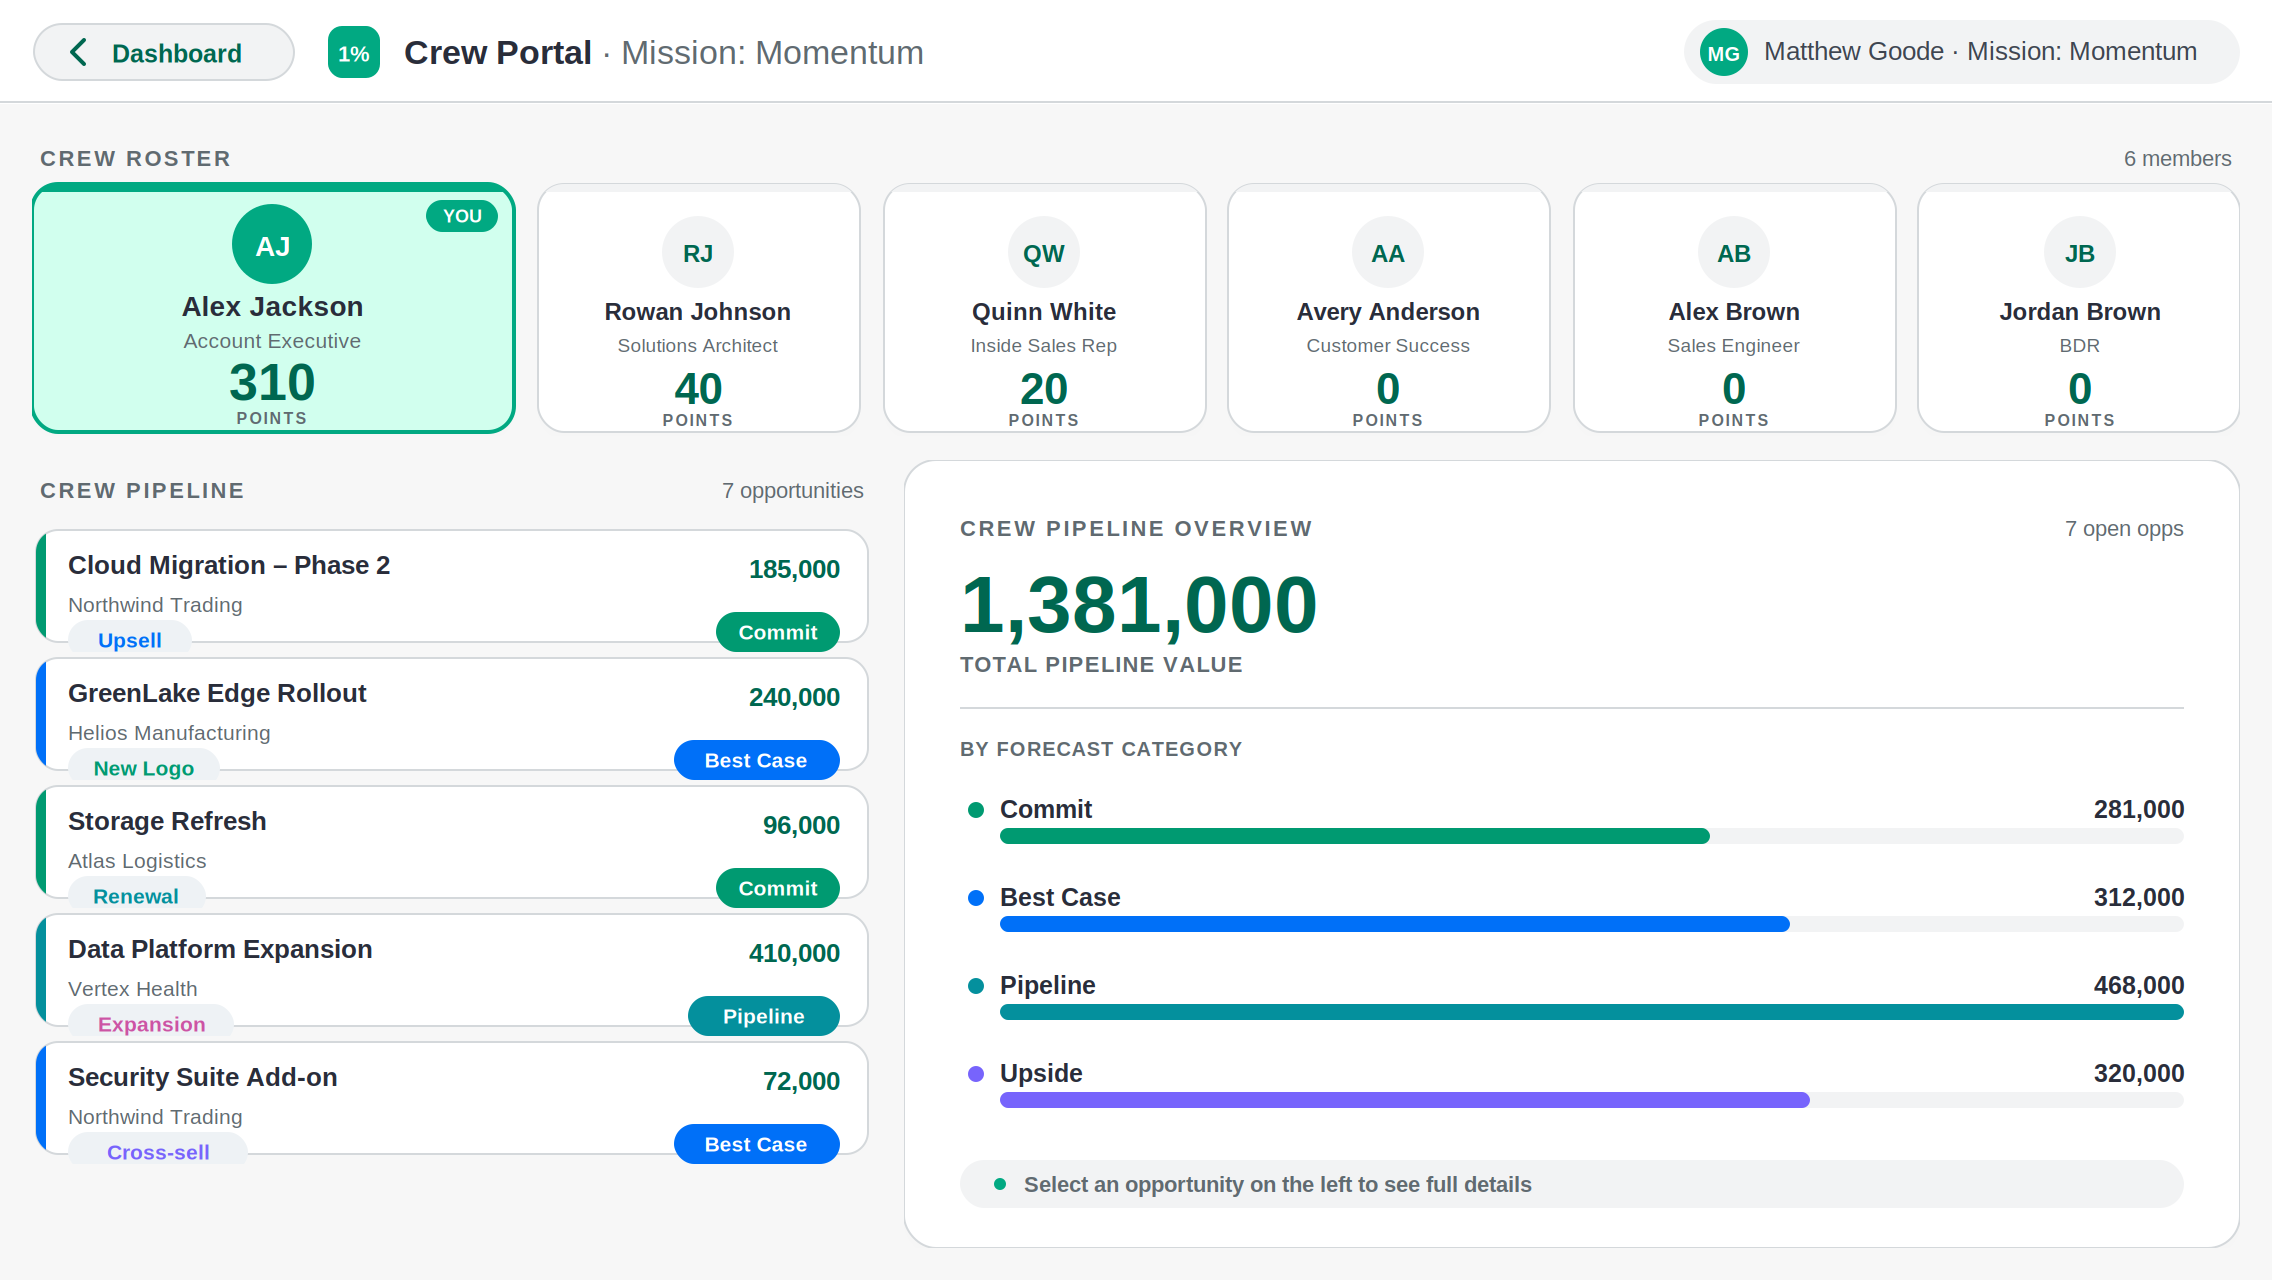
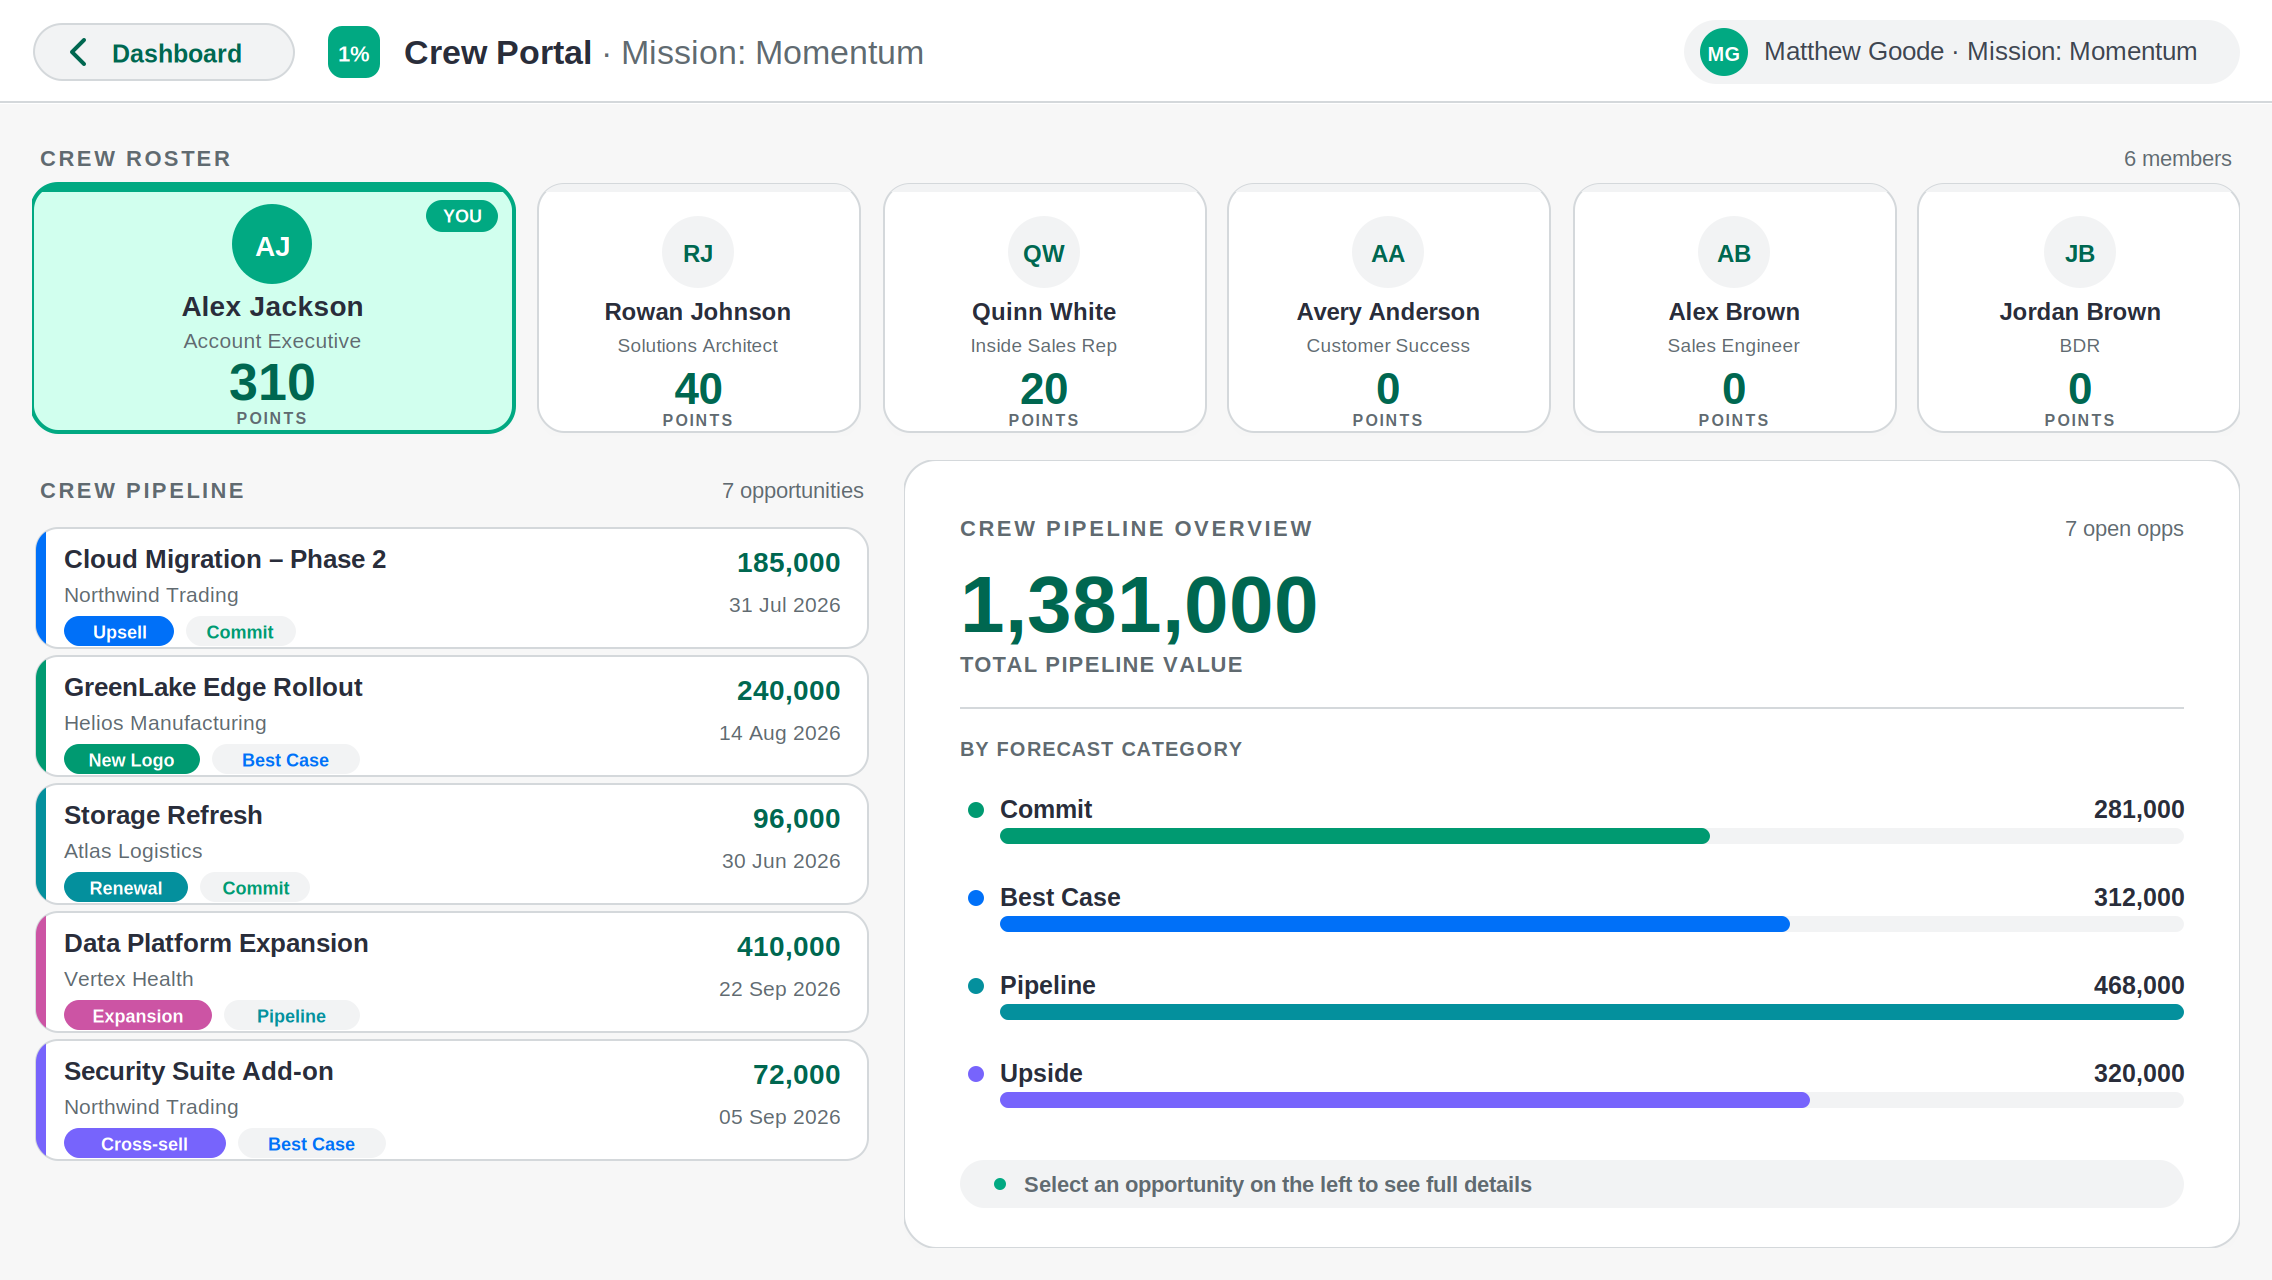
Opp row: show close date (no overlap) + colour-code by funnel type
- Right side now stacks Value (top) and Close date (below) instead of stacking
  the value under the forecast chip — the close date is no longer hidden.
- Colour coding switched from Forecast Category to Funnel Type: the left accent
  bar and the funnel chip use the funnel colour; the forecast becomes a muted
  pill beside the funnel chip. Generator + previews updated.

https://claude.ai/code/session_01DdeMXZuukHcxELz7zTeMNu

Changed region(s): [[0.0, 0.4062, 0.375, 0.9062]]

diff --git a/powerapps-dashboard/_generate_previews.py b/powerapps-dashboard/_generate_previews.py
@@ -594,22 +594,26 @@ def opp_header_inner(count):
 # ---------------------------------------------------------------- OPP ROW
 def opp_row_inner(o, selected=False, idx=0):
     W, H = P_LIST[2], OPPROW_H
+    ftc = FUNNELCOL.get(o['funnel'], C['weak'])   # colour coding = FUNNEL TYPE
     fc = FCCOL.get(o['forecast'], C['weak'])
     s = [DEFS, CSS]
     s.append(f"<g class='rw' style='animation-delay:{0.06+idx*0.05:.2f}s'>")
-    s.append(f"<rect x='2' y='3' width='{W-4}' height='{H-8}' rx='11' fill='{C['greenTint'] if selected else C['card']}' stroke='{C['brand'] if selected else C['border']}' stroke-width='{2 if selected else 1}'/>")
-    s.append(f"<clipPath id='or'><rect x='2' y='3' width='{W-4}' height='{H-8}' rx='11'/></clipPath>")
-    s.append(f"<rect x='2' y='3' width='5' height='{H-8}' rx='2.5' fill='{fc}' clip-path='url(#or)'/>")
-    s.append(f"<text x='18' y='25' font-family='{FONT}' font-size='13' font-weight='700' fill='{C['strong']}'>{esc(trunc(o['name'], 34))}</text>")
-    s.append(f"<text x='18' y='44' font-family='{FONT}' font-size='10.5' fill='{C['weak']}'>{esc(trunc(o['account'], 30))}</text>")
-    ftc = FUNNELCOL.get(o['funnel'], C['weak'])
-    ch, cw = chip(18, 48, o['funnel'], "#eef2f5", fg=ftc)
-    # value, right aligned
-    s.append(f"<text x='{W-16}' y='27' font-family='{FONT}' font-size='13' font-weight='700' fill='{C['greenDark']}' text-anchor='end'>{money(o['value'])}</text>")
-    fch, fcw = chip(W - 16 - (7 * len(o['forecast']) + 20), 44, o['forecast'], fc)
-    s.append(ch); s.append(fch)
-    if selected:
-        s.append(f"<path d='M{W-14},28 l6,5 l-6,5' fill='none' stroke='{C['brand']}' stroke-width='2' stroke-linecap='round' stroke-linejoin='round'/>")
+    s.append(f"<rect x='2' y='2' width='{W-4}' height='60' rx='11' fill='{C['greenTint'] if selected else C['card']}' stroke='{C['brand'] if selected else C['border']}' stroke-width='{2 if selected else 1}'/>")
+    s.append(f"<clipPath id='or'><rect x='2' y='2' width='{W-4}' height='60' rx='11'/></clipPath>")
+    s.append(f"<rect x='2' y='2' width='5' height='60' rx='2.5' fill='{ftc}' clip-path='url(#or)'/>")
+    # left: name + account
+    s.append(f"<text x='16' y='22' font-family='{FONT}' font-size='13' font-weight='700' fill='{C['strong']}'>{esc(trunc(o['name'], 30))}</text>")
+    s.append(f"<text x='16' y='39' font-family='{FONT}' font-size='10.5' fill='{C['weak']}'>{esc(trunc(o['account'], 28))}</text>")
+    # right: value (top) + close date (below) — stacked, no overlap
+    s.append(f"<text x='{W-16}' y='24' font-family='{FONT}' font-size='14' font-weight='700' fill='{C['greenDark']}' text-anchor='end'>{money(o['value'])}</text>")
+    s.append(f"<text x='{W-16}' y='44' font-family='{FONT}' font-size='10.5' fill='{C['weak']}' text-anchor='end'>{esc(o['close'])}</text>")
+    # bottom-left: funnel chip (filled funnel colour) + forecast pill (muted)
+    ft = trunc(o['funnel'], 16); fw = round(6.5 * len(ft) + 16)
+    s.append(f"<rect x='16' y='46' width='{fw}' height='15' rx='7.5' fill='{ftc}'/>")
+    s.append(f"<text x='{round(16+fw/2)}' y='54' font-family='{FONT}' font-size='9' font-weight='700' fill='#ffffff' text-anchor='middle' dominant-baseline='central'>{esc(ft)}</text>")
+    pw = round(6.5 * len(o['forecast']) + 16); px = 16 + fw + 6
+    s.append(f"<rect x='{px}' y='46' width='{pw}' height='15' rx='7.5' fill='{C['contrast']}'/>")
+    s.append(f"<text x='{round(px+pw/2)}' y='54' font-family='{FONT}' font-size='9' font-weight='700' fill='{fc}' text-anchor='middle' dominant-baseline='central'>{esc(o['forecast'])}</text>")
     s.append("</g>")
     return W, H, "".join(s)
 
